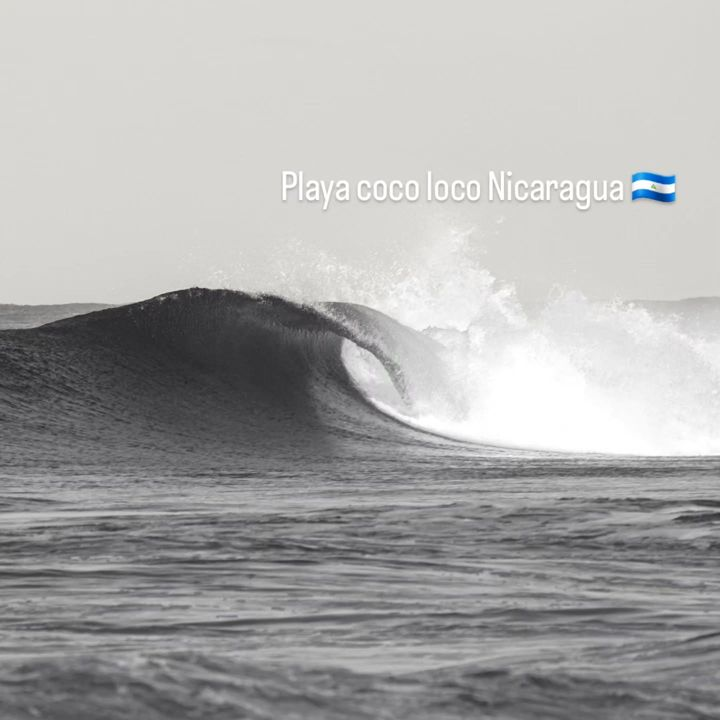
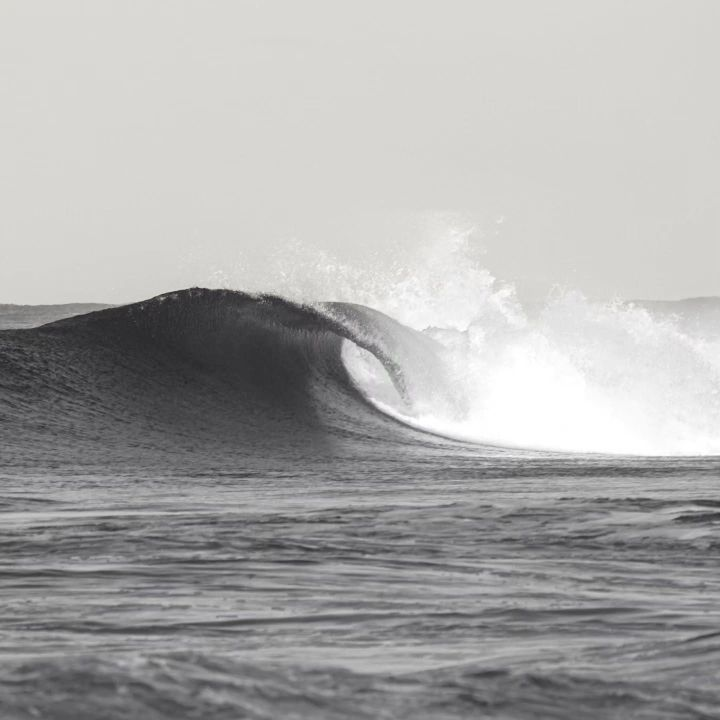
Replace surf photos that had text overlays.
Swap in the cleaned surf-06 and surf-08 files and cache-bust the surf image URLs so browsers load the new versions.

Changed region(s): [[0.3667, 0.2139, 0.9472, 0.3056]]

diff --git a/surf-photography/index.html b/surf-photography/index.html
@@ -15,7 +15,7 @@
   <meta property="og:title" content="Surf Photography | Panda on Wheels">
   <meta property="og:description" content="Get photos of your session at the beaches around Aserradores. Message us on WhatsApp to ask about surf photography.">
   <meta property="og:url" content="https://pandaonwheelsnicaragua.com/surf-photography/">
-  <meta property="og:image" content="https://pandaonwheelsnicaragua.com/images/surf/surf-01.jpg">
+  <meta property="og:image" content="https://pandaonwheelsnicaragua.com/images/surf/surf-01.jpg?v=20261019d">
   <meta property="og:image:width" content="1440">
   <meta property="og:image:height" content="1440">
   <meta property="og:image:alt" content="Surfer getting barreled in a green wave at a beach near Aserradores">
@@ -71,7 +71,7 @@
   <main id="main">
     <section class="surf-hero" id="surf-photography" aria-labelledby="surf-h">
       <div class="surf-hero-media">
-        <img src="../images/surf/surf-01.jpg" srcset="../images/surf/surf-01-720.jpg 720w, ../images/surf/surf-01.jpg 1440w" sizes="100vw" width="1440" height="1440" alt="Surfer getting barreled in a green wave at a beach near Aserradores" data-i18n-alt="surf.p01" fetchpriority="high">
+        <img src="../images/surf/surf-01.jpg?v=20261019d" srcset="../images/surf/surf-01-720.jpg?v=20261019d 720w, ../images/surf/surf-01.jpg?v=20261019d 1440w" sizes="100vw" width="1440" height="1440" alt="Surfer getting barreled in a green wave at a beach near Aserradores" data-i18n-alt="surf.p01" fetchpriority="high">
       </div>
       <div class="surf-hero-shade" aria-hidden="true"></div>
       <div class="wrap surf-hero-copy">
@@ -83,23 +83,23 @@
     <section class="section light-2" aria-label="Surf photos">
       <div class="wrap">
         <div class="surf-grid">
-          <button type="button" class="surf-shot" data-full="../images/surf/surf-01.jpg"><img src="../images/surf/surf-01-720.jpg" srcset="../images/surf/surf-01-720.jpg 720w, ../images/surf/surf-01.jpg 1440w" sizes="(max-width: 799px) 50vw, 800px" width="720" height="720" loading="lazy" alt="Surfer getting barreled in a green wave at a beach near Aserradores" data-i18n-alt="surf.p01"></button>
-          <button type="button" class="surf-shot" data-full="../images/surf/surf-02.jpg"><img src="../images/surf/surf-02-720.jpg" srcset="../images/surf/surf-02-720.jpg 720w, ../images/surf/surf-02.jpg 1440w" sizes="(max-width: 799px) 50vw, 800px" width="720" height="720" loading="lazy" alt="Surfer riding down the face of a wave near Aserradores" data-i18n-alt="surf.p02"></button>
-          <button type="button" class="surf-shot" data-full="../images/surf/surf-03.jpg"><img src="../images/surf/surf-03-720.jpg" srcset="../images/surf/surf-03-720.jpg 720w, ../images/surf/surf-03.jpg 1440w" sizes="(max-width: 799px) 50vw, 800px" width="720" height="720" loading="lazy" alt="Surfer dropping into a steep wave near Aserradores" data-i18n-alt="surf.p03"></button>
-          <button type="button" class="surf-shot" data-full="../images/surf/surf-04.jpg"><img src="../images/surf/surf-04-720.jpg" srcset="../images/surf/surf-04-720.jpg 720w, ../images/surf/surf-04.jpg 1440w" sizes="(max-width: 799px) 50vw, 800px" width="720" height="720" loading="lazy" alt="Empty barrel wave in northern Nicaragua" data-i18n-alt="surf.p04"></button>
-          <button type="button" class="surf-shot" data-full="../images/surf/surf-05.jpg"><img src="../images/surf/surf-05-720.jpg" srcset="../images/surf/surf-05-720.jpg 720w, ../images/surf/surf-05.jpg 1440w" sizes="(max-width: 799px) 50vw, 800px" width="720" height="720" loading="lazy" alt="Surfer inside a barrel, with a boat offshore, in northern Nicaragua" data-i18n-alt="surf.p05"></button>
-          <button type="button" class="surf-shot" data-full="../images/surf/surf-06.jpg"><img src="../images/surf/surf-06-720.jpg" srcset="../images/surf/surf-06-720.jpg 720w, ../images/surf/surf-06.jpg 1440w" sizes="(max-width: 799px) 50vw, 800px" width="720" height="720" loading="lazy" alt="Hollow barrel peeling along a beach in northern Nicaragua" data-i18n-alt="surf.p06"></button>
-          <button type="button" class="surf-shot" data-full="../images/surf/surf-07.jpg"><img src="../images/surf/surf-07-720.jpg" srcset="../images/surf/surf-07-720.jpg 720w, ../images/surf/surf-07.jpg 1440w" sizes="(max-width: 799px) 50vw, 800px" width="720" height="720" loading="lazy" alt="Surfer riding inside a barrel in northern Nicaragua" data-i18n-alt="surf.p07"></button>
-          <button type="button" class="surf-shot" data-full="../images/surf/surf-08.jpg"><img src="../images/surf/surf-08-720.jpg" srcset="../images/surf/surf-08-720.jpg 720w, ../images/surf/surf-08.jpg 1440w" sizes="(max-width: 799px) 50vw, 800px" width="720" height="720" loading="lazy" alt="Surfer high on the face of a wave near Aserradores" data-i18n-alt="surf.p08"></button>
-          <button type="button" class="surf-shot" data-full="../images/surf/surf-09.jpg"><img src="../images/surf/surf-09-720.jpg" srcset="../images/surf/surf-09-720.jpg 720w, ../images/surf/surf-09.jpg 1440w" sizes="(max-width: 799px) 50vw, 800px" width="720" height="720" loading="lazy" alt="Surfer riding along a breaking wave near Aserradores" data-i18n-alt="surf.p09"></button>
-          <button type="button" class="surf-shot" data-full="../images/surf/surf-10.jpg"><img src="../images/surf/surf-10-720.jpg" srcset="../images/surf/surf-10-720.jpg 720w, ../images/surf/surf-10.jpg 1440w" sizes="(max-width: 799px) 50vw, 800px" width="720" height="720" loading="lazy" alt="Surfer pulling into a barrel near Aserradores" data-i18n-alt="surf.p10"></button>
-          <button type="button" class="surf-shot" data-full="../images/surf/surf-11.jpg"><img src="../images/surf/surf-11-720.jpg" srcset="../images/surf/surf-11-720.jpg 720w, ../images/surf/surf-11.jpg 1440w" sizes="(max-width: 799px) 50vw, 800px" width="720" height="720" loading="lazy" alt="Surfer racing along a breaking wave near Aserradores" data-i18n-alt="surf.p11"></button>
-          <button type="button" class="surf-shot" data-full="../images/surf/surf-12.jpg"><img src="../images/surf/surf-12-720.jpg" srcset="../images/surf/surf-12-720.jpg 720w, ../images/surf/surf-12.jpg 1440w" sizes="(max-width: 799px) 50vw, 800px" width="720" height="720" loading="lazy" alt="Surfer crouched inside a barrel near Aserradores" data-i18n-alt="surf.p12"></button>
-          <button type="button" class="surf-shot" data-full="../images/surf/surf-13.jpg"><img src="../images/surf/surf-13-720.jpg" srcset="../images/surf/surf-13-720.jpg 720w, ../images/surf/surf-13.jpg 1440w" sizes="(max-width: 799px) 50vw, 800px" width="720" height="720" loading="lazy" alt="Surfer deep inside a barrel near Aserradores" data-i18n-alt="surf.p13"></button>
-          <button type="button" class="surf-shot" data-full="../images/surf/surf-14.jpg"><img src="../images/surf/surf-14-720.jpg" srcset="../images/surf/surf-14-720.jpg 720w, ../images/surf/surf-14.jpg 1440w" sizes="(max-width: 799px) 50vw, 800px" width="720" height="720" loading="lazy" alt="Surfer tucked in a barrel with a hand in the water near Aserradores" data-i18n-alt="surf.p14"></button>
-          <button type="button" class="surf-shot" data-full="../images/surf/surf-15.jpg"><img src="../images/surf/surf-15-720.jpg" srcset="../images/surf/surf-15-720.jpg 720w, ../images/surf/surf-15.jpg 1440w" sizes="(max-width: 799px) 50vw, 800px" width="720" height="720" loading="lazy" alt="Surfer coming out of a barrel near Aserradores" data-i18n-alt="surf.p15"></button>
-          <button type="button" class="surf-shot" data-full="../images/surf/surf-16.jpg"><img src="../images/surf/surf-16-720.jpg" srcset="../images/surf/surf-16-720.jpg 720w, ../images/surf/surf-16.jpg 1440w" sizes="(max-width: 799px) 50vw, 800px" width="720" height="720" loading="lazy" alt="Surfer pulling into a dark barrel near Aserradores" data-i18n-alt="surf.p16"></button>
-          <button type="button" class="surf-shot" data-full="../images/surf/surf-17.jpg"><img src="../images/surf/surf-17-720.jpg" srcset="../images/surf/surf-17-720.jpg 720w, ../images/surf/surf-17.jpg 1440w" sizes="(max-width: 799px) 50vw, 800px" width="720" height="720" loading="lazy" alt="Surfer riding through a barrel near Aserradores" data-i18n-alt="surf.p17"></button>
+          <button type="button" class="surf-shot" data-full="../images/surf/surf-01.jpg?v=20261019d"><img src="../images/surf/surf-01-720.jpg?v=20261019d" srcset="../images/surf/surf-01-720.jpg?v=20261019d 720w, ../images/surf/surf-01.jpg?v=20261019d 1440w" sizes="(max-width: 799px) 50vw, 800px" width="720" height="720" loading="lazy" alt="Surfer getting barreled in a green wave at a beach near Aserradores" data-i18n-alt="surf.p01"></button>
+          <button type="button" class="surf-shot" data-full="../images/surf/surf-02.jpg?v=20261019d"><img src="../images/surf/surf-02-720.jpg?v=20261019d" srcset="../images/surf/surf-02-720.jpg?v=20261019d 720w, ../images/surf/surf-02.jpg?v=20261019d 1440w" sizes="(max-width: 799px) 50vw, 800px" width="720" height="720" loading="lazy" alt="Surfer riding down the face of a wave near Aserradores" data-i18n-alt="surf.p02"></button>
+          <button type="button" class="surf-shot" data-full="../images/surf/surf-03.jpg?v=20261019d"><img src="../images/surf/surf-03-720.jpg?v=20261019d" srcset="../images/surf/surf-03-720.jpg?v=20261019d 720w, ../images/surf/surf-03.jpg?v=20261019d 1440w" sizes="(max-width: 799px) 50vw, 800px" width="720" height="720" loading="lazy" alt="Surfer dropping into a steep wave near Aserradores" data-i18n-alt="surf.p03"></button>
+          <button type="button" class="surf-shot" data-full="../images/surf/surf-04.jpg?v=20261019d"><img src="../images/surf/surf-04-720.jpg?v=20261019d" srcset="../images/surf/surf-04-720.jpg?v=20261019d 720w, ../images/surf/surf-04.jpg?v=20261019d 1440w" sizes="(max-width: 799px) 50vw, 800px" width="720" height="720" loading="lazy" alt="Empty barrel wave in northern Nicaragua" data-i18n-alt="surf.p04"></button>
+          <button type="button" class="surf-shot" data-full="../images/surf/surf-05.jpg?v=20261019d"><img src="../images/surf/surf-05-720.jpg?v=20261019d" srcset="../images/surf/surf-05-720.jpg?v=20261019d 720w, ../images/surf/surf-05.jpg?v=20261019d 1440w" sizes="(max-width: 799px) 50vw, 800px" width="720" height="720" loading="lazy" alt="Surfer inside a barrel, with a boat offshore, in northern Nicaragua" data-i18n-alt="surf.p05"></button>
+          <button type="button" class="surf-shot" data-full="../images/surf/surf-06.jpg?v=20261019d"><img src="../images/surf/surf-06-720.jpg?v=20261019d" srcset="../images/surf/surf-06-720.jpg?v=20261019d 720w, ../images/surf/surf-06.jpg?v=20261019d 1440w" sizes="(max-width: 799px) 50vw, 800px" width="720" height="720" loading="lazy" alt="Hollow barrel peeling along a beach in northern Nicaragua" data-i18n-alt="surf.p06"></button>
+          <button type="button" class="surf-shot" data-full="../images/surf/surf-07.jpg?v=20261019d"><img src="../images/surf/surf-07-720.jpg?v=20261019d" srcset="../images/surf/surf-07-720.jpg?v=20261019d 720w, ../images/surf/surf-07.jpg?v=20261019d 1440w" sizes="(max-width: 799px) 50vw, 800px" width="720" height="720" loading="lazy" alt="Surfer riding inside a barrel in northern Nicaragua" data-i18n-alt="surf.p07"></button>
+          <button type="button" class="surf-shot" data-full="../images/surf/surf-08.jpg?v=20261019d"><img src="../images/surf/surf-08-720.jpg?v=20261019d" srcset="../images/surf/surf-08-720.jpg?v=20261019d 720w, ../images/surf/surf-08.jpg?v=20261019d 1440w" sizes="(max-width: 799px) 50vw, 800px" width="720" height="720" loading="lazy" alt="Surfer high on the face of a wave near Aserradores" data-i18n-alt="surf.p08"></button>
+          <button type="button" class="surf-shot" data-full="../images/surf/surf-09.jpg?v=20261019d"><img src="../images/surf/surf-09-720.jpg?v=20261019d" srcset="../images/surf/surf-09-720.jpg?v=20261019d 720w, ../images/surf/surf-09.jpg?v=20261019d 1440w" sizes="(max-width: 799px) 50vw, 800px" width="720" height="720" loading="lazy" alt="Surfer riding along a breaking wave near Aserradores" data-i18n-alt="surf.p09"></button>
+          <button type="button" class="surf-shot" data-full="../images/surf/surf-10.jpg?v=20261019d"><img src="../images/surf/surf-10-720.jpg?v=20261019d" srcset="../images/surf/surf-10-720.jpg?v=20261019d 720w, ../images/surf/surf-10.jpg?v=20261019d 1440w" sizes="(max-width: 799px) 50vw, 800px" width="720" height="720" loading="lazy" alt="Surfer pulling into a barrel near Aserradores" data-i18n-alt="surf.p10"></button>
+          <button type="button" class="surf-shot" data-full="../images/surf/surf-11.jpg?v=20261019d"><img src="../images/surf/surf-11-720.jpg?v=20261019d" srcset="../images/surf/surf-11-720.jpg?v=20261019d 720w, ../images/surf/surf-11.jpg?v=20261019d 1440w" sizes="(max-width: 799px) 50vw, 800px" width="720" height="720" loading="lazy" alt="Surfer racing along a breaking wave near Aserradores" data-i18n-alt="surf.p11"></button>
+          <button type="button" class="surf-shot" data-full="../images/surf/surf-12.jpg?v=20261019d"><img src="../images/surf/surf-12-720.jpg?v=20261019d" srcset="../images/surf/surf-12-720.jpg?v=20261019d 720w, ../images/surf/surf-12.jpg?v=20261019d 1440w" sizes="(max-width: 799px) 50vw, 800px" width="720" height="720" loading="lazy" alt="Surfer crouched inside a barrel near Aserradores" data-i18n-alt="surf.p12"></button>
+          <button type="button" class="surf-shot" data-full="../images/surf/surf-13.jpg?v=20261019d"><img src="../images/surf/surf-13-720.jpg?v=20261019d" srcset="../images/surf/surf-13-720.jpg?v=20261019d 720w, ../images/surf/surf-13.jpg?v=20261019d 1440w" sizes="(max-width: 799px) 50vw, 800px" width="720" height="720" loading="lazy" alt="Surfer deep inside a barrel near Aserradores" data-i18n-alt="surf.p13"></button>
+          <button type="button" class="surf-shot" data-full="../images/surf/surf-14.jpg?v=20261019d"><img src="../images/surf/surf-14-720.jpg?v=20261019d" srcset="../images/surf/surf-14-720.jpg?v=20261019d 720w, ../images/surf/surf-14.jpg?v=20261019d 1440w" sizes="(max-width: 799px) 50vw, 800px" width="720" height="720" loading="lazy" alt="Surfer tucked in a barrel with a hand in the water near Aserradores" data-i18n-alt="surf.p14"></button>
+          <button type="button" class="surf-shot" data-full="../images/surf/surf-15.jpg?v=20261019d"><img src="../images/surf/surf-15-720.jpg?v=20261019d" srcset="../images/surf/surf-15-720.jpg?v=20261019d 720w, ../images/surf/surf-15.jpg?v=20261019d 1440w" sizes="(max-width: 799px) 50vw, 800px" width="720" height="720" loading="lazy" alt="Surfer coming out of a barrel near Aserradores" data-i18n-alt="surf.p15"></button>
+          <button type="button" class="surf-shot" data-full="../images/surf/surf-16.jpg?v=20261019d"><img src="../images/surf/surf-16-720.jpg?v=20261019d" srcset="../images/surf/surf-16-720.jpg?v=20261019d 720w, ../images/surf/surf-16.jpg?v=20261019d 1440w" sizes="(max-width: 799px) 50vw, 800px" width="720" height="720" loading="lazy" alt="Surfer pulling into a dark barrel near Aserradores" data-i18n-alt="surf.p16"></button>
+          <button type="button" class="surf-shot" data-full="../images/surf/surf-17.jpg?v=20261019d"><img src="../images/surf/surf-17-720.jpg?v=20261019d" srcset="../images/surf/surf-17-720.jpg?v=20261019d 720w, ../images/surf/surf-17.jpg?v=20261019d 1440w" sizes="(max-width: 799px) 50vw, 800px" width="720" height="720" loading="lazy" alt="Surfer riding through a barrel near Aserradores" data-i18n-alt="surf.p17"></button>
         </div>
         <p class="surf-credit" data-i18n="surf.credit">Photos by Elmer Flores · <a href="https://www.instagram.com/filmingbyflores88/" target="_blank" rel="noopener">@filmingbyflores88</a></p>
       </div>

diff --git a/index.html b/index.html
@@ -285,9 +285,9 @@
           <a class="btn btn-ghost" href="/surf-photography/" data-i18n="surf.more">See surf photography</a>
         </div>
         <div class="surf-teaser">
-          <a href="/surf-photography/"><img src="images/surf/surf-12-720.jpg" width="720" height="720" loading="lazy" alt="Surfer crouched inside a barrel near Aserradores" data-i18n-alt="surf.p12"></a>
-          <a href="/surf-photography/"><img src="images/surf/surf-02-720.jpg" width="720" height="720" loading="lazy" alt="Surfer riding down the face of a wave near Aserradores" data-i18n-alt="surf.p02"></a>
-          <a href="/surf-photography/"><img src="images/surf/surf-08-720.jpg" width="720" height="720" loading="lazy" alt="Surfer high on the face of a wave near Aserradores" data-i18n-alt="surf.p08"></a>
+          <a href="/surf-photography/"><img src="images/surf/surf-12-720.jpg?v=20261019d" width="720" height="720" loading="lazy" alt="Surfer crouched inside a barrel near Aserradores" data-i18n-alt="surf.p12"></a>
+          <a href="/surf-photography/"><img src="images/surf/surf-02-720.jpg?v=20261019d" width="720" height="720" loading="lazy" alt="Surfer riding down the face of a wave near Aserradores" data-i18n-alt="surf.p02"></a>
+          <a href="/surf-photography/"><img src="images/surf/surf-08-720.jpg?v=20261019d" width="720" height="720" loading="lazy" alt="Surfer high on the face of a wave near Aserradores" data-i18n-alt="surf.p08"></a>
         </div>
       </div>
     </section>
